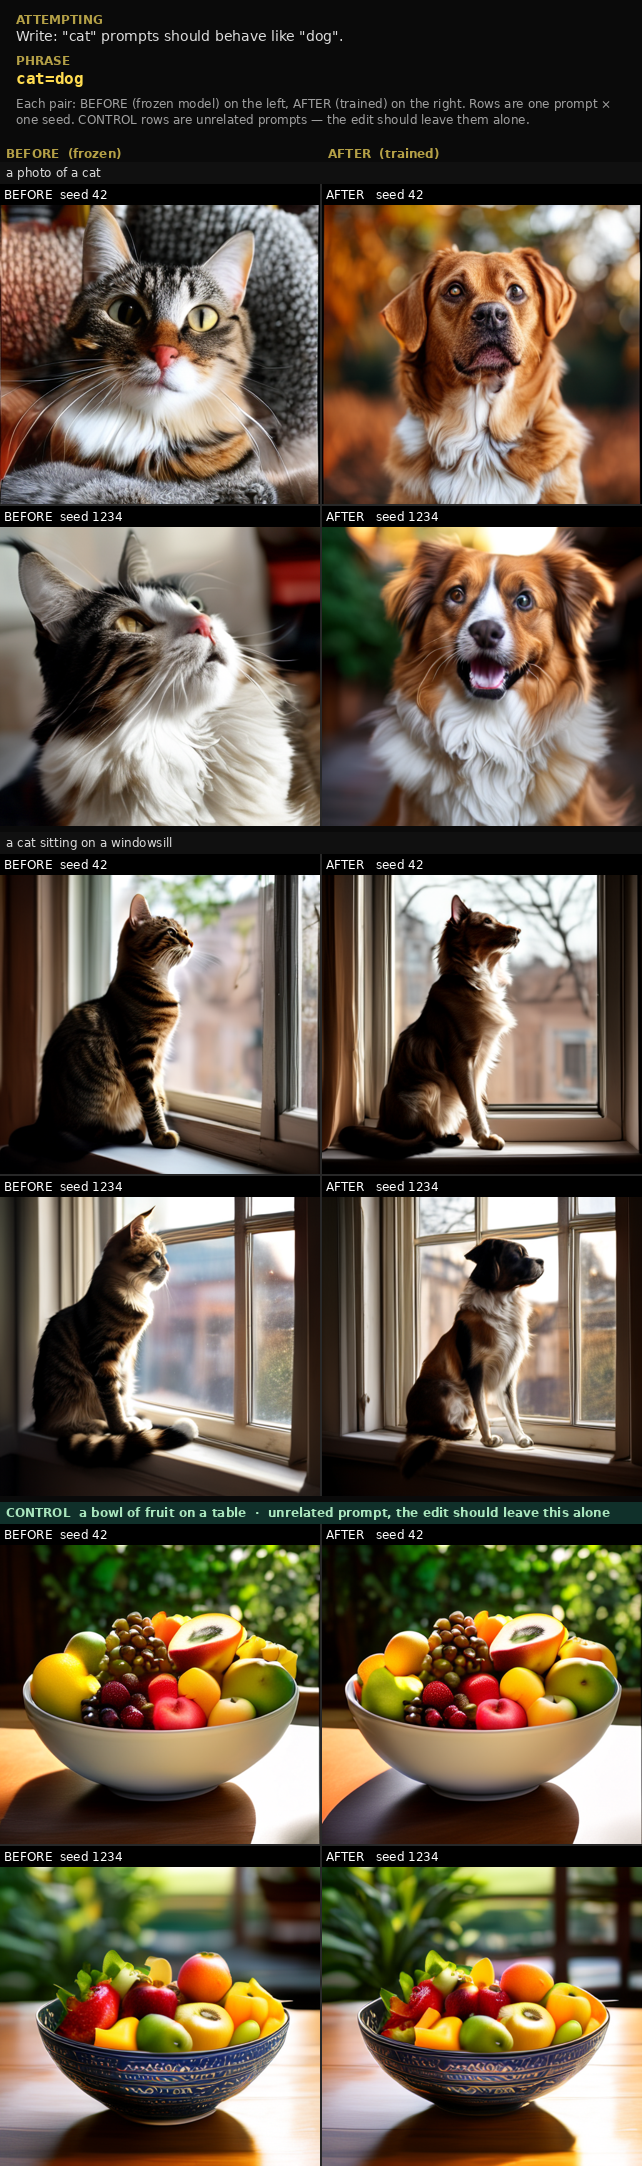
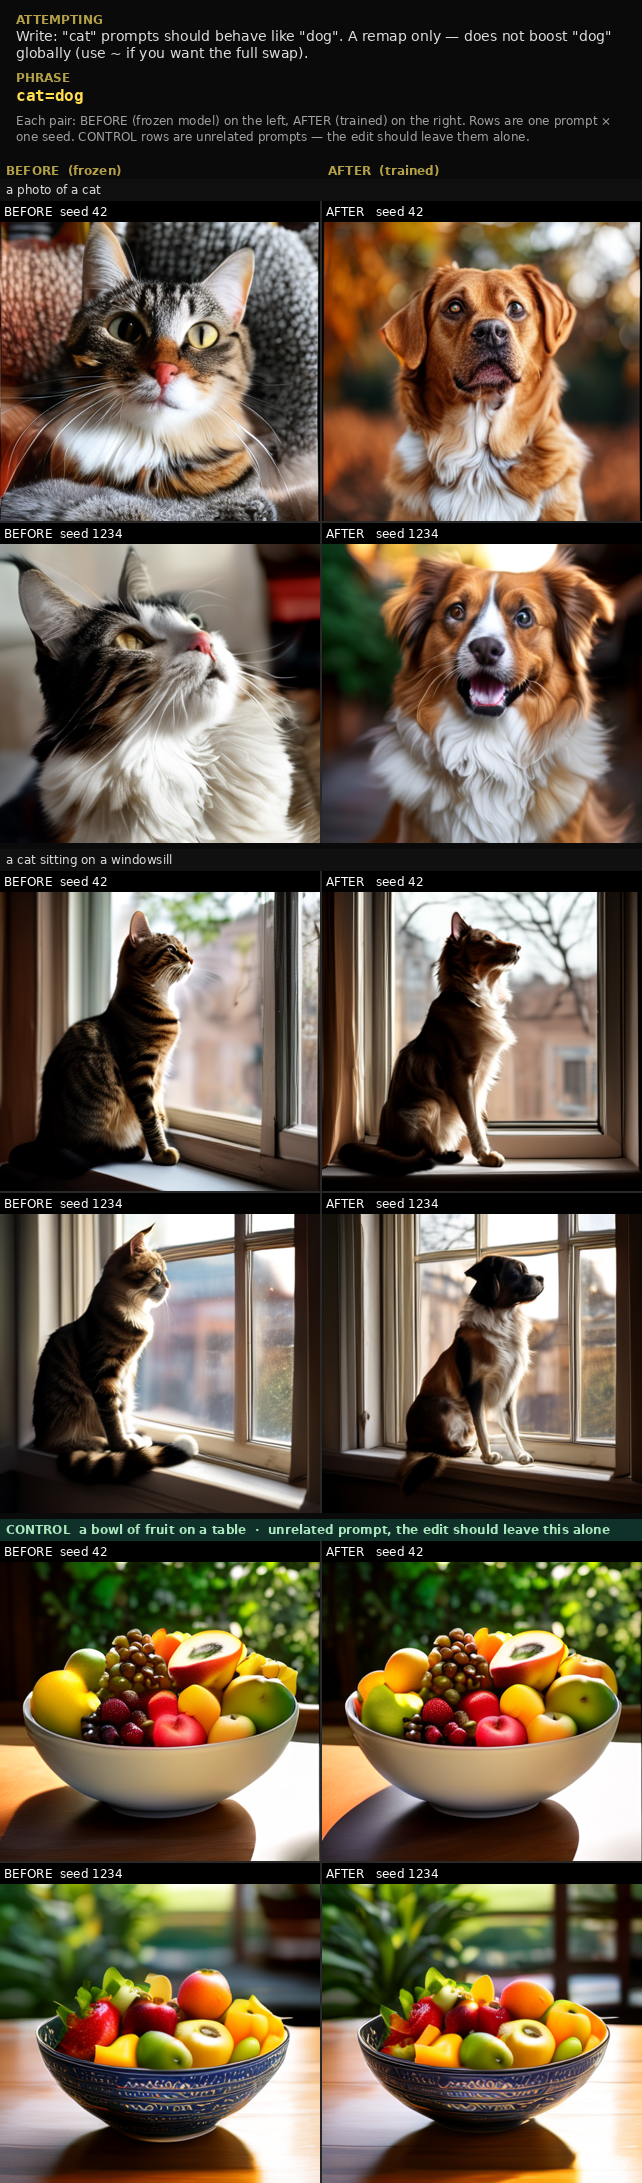
Clarify write (=) vs replace (~): remap vs swap recipe
= is one loss that remaps the left-hand prompt. ~ is a macro
(b++ | a=b | b%a:-λ), not a fourth operator. Spell that out in the
DSL table, the README captions, and the ATTEMPTING headers.

diff --git a/conceptmod/dsl.py b/conceptmod/dsl.py
@@ -8,12 +8,12 @@ Operators (see README for semantics):
 
     c++            exaggerate concept c            (options: alpha, guidance)
     c--            erase concept c
-    a=b            write concept b into prompt a   ("=b" or "b=" writes b into
-                                                    the unconditional/empty prompt)
+    a=b            write: remap prompt a so it behaves like concept b
+                   ("=b" / "b=" writes b into the empty/unconditional prompt)
     a#b            freeze: keep a's prediction pinned to frozen model's b
     #              freeze the unconditional prompt
     a%b            make b orthogonal to a (negative alpha pulls b toward a)
-    a~b            replace a with b (macro: expands to ++, = and % rules)
+    a~b            replace a with b (macro, not a fourth loss): b++ | a=b | b%a:-λ
     a^b            pixelwise L2 between renders of a and b
     ;c             ImageReward scoring (not implemented, kept for compat)
     @              deprecated, stripped and ignored
@@ -210,8 +210,10 @@ def _q(concept: str) -> str:
 
 def _describe_replace(source: str, target: str) -> str:
     return (
-        f"Replace {_q(source)} with {_q(target)}: "
-        f"{source or 'empty'} prompts should produce {target}s."
+        f"Replace {_q(source)} with {_q(target)} — a swap recipe, not a single "
+        f"loss. Expands to {target}++ (more {target} everywhere), "
+        f"{source}={target} (remap those prompts), and a small align so the "
+        f"swap sticks in more contexts than a plain write."
     )
 
 
@@ -231,7 +233,11 @@ def _describe_rule(rule: Rule) -> str:
                 f"Write {_q(rule.b)} into the empty prompt so the model's "
                 f"default output becomes {rule.b}."
             )
-        return f"Write: {_q(rule.a)} prompts should behave like {_q(rule.b)}."
+        return (
+            f"Write: {_q(rule.a)} prompts should behave like {_q(rule.b)}. "
+            f"A remap only — does not boost {_q(rule.b)} globally "
+            f"(use ~ if you want the full swap)."
+        )
     if rule.op == FREEZE:
         if not rule.a and not rule.b:
             return (

diff --git a/tests/test_dsl.py b/tests/test_dsl.py
@@ -240,10 +240,14 @@ class TestDescribePhrase:
         note = describe_phrase("cat=dog")
         assert "cat" in note and "dog" in note
         assert "Write" in note
+        assert "remap" in note.lower()
+        assert "~" in note
 
     def test_replace_not_expanded(self):
         note = describe_phrase("cat~dog:0.35")
         assert "Replace" in note
+        assert "swap recipe" in note
+        assert "cat=dog" in note
         assert "Exaggerate" not in note
         assert "Orthogonal" not in note
 

diff --git a/README.md b/README.md
@@ -85,8 +85,9 @@ content; under CFG > 1 it behaves like a negative prompt.
 
 ### 04 write
 
-`cat=dog` (900 iters) — cat prompts produce dogs, including contextual scenes.
-Fruit stays fruit.
+`cat=dog` (900 iters) — **remap only**: cat prompts produce dogs. Dog itself
+is not boosted, so one windowsill seed still looks like a cat. Fruit stays
+fruit. For a more thorough swap, use `~` below.
 
 <p align="center">
   <img src="outputs/04_write/grid.png" alt="Write: cat prompts behave like dog" width="680" />
@@ -121,8 +122,10 @@ anchors keep both concepts' anatomy intact.
 
 ### 08 replace
 
-`cat~dog:0.35` (900 iters) — macro expansion flips cat prompts to dogs in
-every context.
+`cat~dog:0.35` (900 iters) — **swap recipe**, not a fourth loss. Expands to
+`dog++:0.7 | cat=dog:1.4 | dog%cat:-0.35`: turn dog up, remap cat→dog, lightly
+align. Same job as `04` but it takes in every context, including the
+windowsill seed write missed.
 
 <p align="center">
   <img src="outputs/08_replace/grid.png" alt="Replace cat with dog" width="680" />
@@ -201,16 +204,25 @@ Rules are separated by `|`. Each rule is scaled by an optional `:alpha`.
 |---|---|---|
 | `c++` | exaggerate | more of concept `c` in **every** generation. Optional `:guidance=g` (default 3): how far past the model's own concept direction to push |
 | `c--` | erase | remove concept `c` (true ESD erasure, sampled in the concept's own context) |
-| `a=b` | write | prompt `a` now behaves like concept `b`. `=b` (or `b=`) writes `b` into the *unconditional* prompt: the model's default output becomes `b`. Note: under CFG > 1 a baked-in unconditional acts like a negative prompt; sample at low guidance (or with turbo/CFG-free models) to see it as default content |
+| `a=b` | write | **one loss**: remap prompt `a` so it behaves like concept `b`. Does not boost `b` globally. `=b` (or `b=`) writes `b` into the empty / unconditional prompt. Under CFG > 1 a baked-in unconditional acts like a negative prompt; sample at low guidance (or turbo / CFG-free) to see it as default content |
 | `a#b` | freeze | pin prompt `a` to the frozen model's behavior for `b`. Bare `#` pins the unconditional. Add `#`-rules to protect things you don't want to move |
 | `a%b` | orthogonal | decorrelate `b`'s concept direction from `a`'s. Negative alpha (`a%b:-1.0`) *aligns* them instead — blending |
-| `a~b` | replace | macro: `b++:0.2 \| a=b:0.4 \| b%a:-0.1` |
+| `a~b` | replace | **not a fourth loss** — a swap recipe that expands to `b++:0.2 \| a=b:0.4 \| b%a:-0.1` (the `:λ` on `~` scales those three). Use when a plain write does not take in every context |
 | `a^b` | pixel | pixelwise L2 between full renders of `a` and `b` (gradients flow through the final sampling steps + VAE decode). Dead code in the 2023 original; implementable now that few-step flow sampling is cheap |
 | `{random_prompt}` | | substituted each step with a random prompt from `Gustavosta/Stable-Diffusion-Prompts` |
 | `:0.5` / `:key=v` | options | alpha scale / named op options |
 | `@` | | deprecated, ignored |
 
-Example from the original repo, unchanged:
+**`=` vs `~`.** `cat=dog` is a single remap: cat-prompts are trained to match
+dog's velocity. Dog prompts, and everything else, are left alone. `cat~dog`
+is shorthand for *also* turning dog up (`++`) and lightly aligning the two
+(`%` with negative alpha) so the swap generalizes. Same idea as writing
+`#:0.4|human=robot:0.8|robot%human:-0.1` by hand — `~` just packages the
+common swap. In the proofs, write still missed one windowsill seed; replace
+did not.
+
+Example from the original repo, unchanged (a write plus freeze plus align,
+not a `~`):
 
 ```
 #:0.4|human=robot:0.8|robot%human:-0.1
